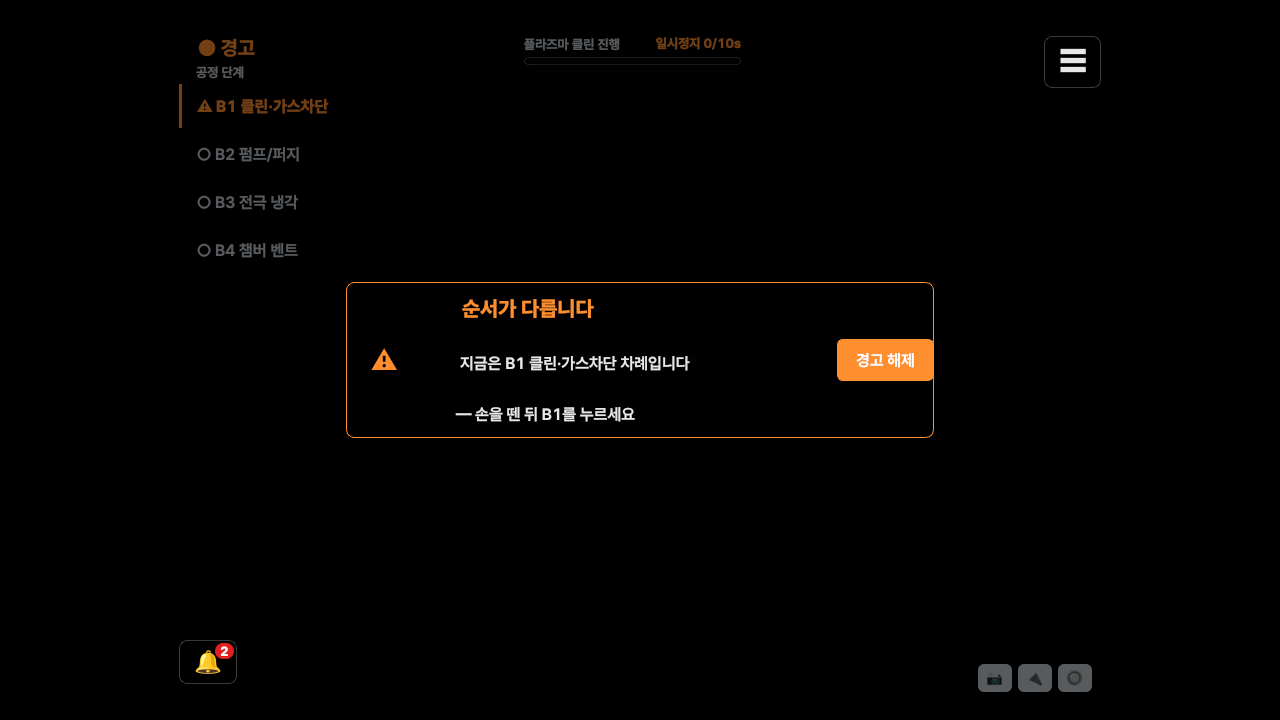
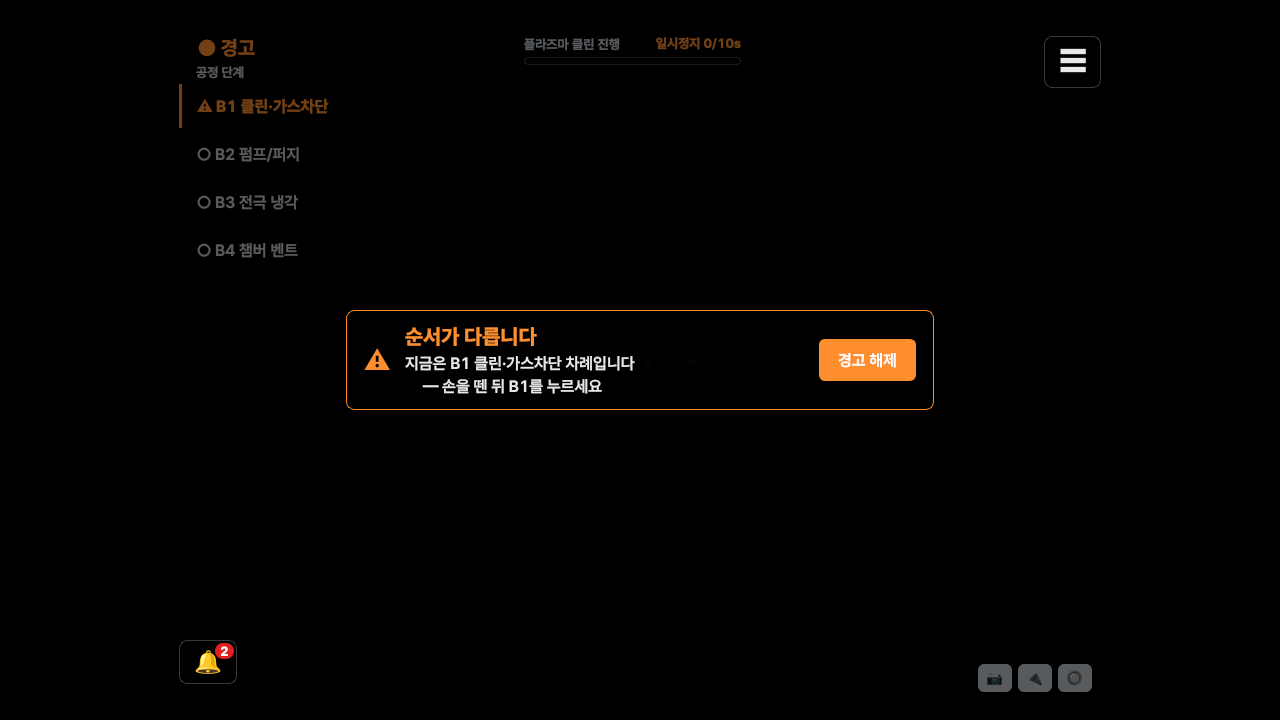
fix(overlay): 경고·차단 박스 안 여백 — 스타일을 박스에만 걸고 여백은 레이아웃으로 (해제 버튼이 테두리에 붙던 것 · 사용자 요청)
박스 QSS 가 선택자 없이 걸려 padding 이 안쪽 글자 칸마다 번졌다(제목 칸 25 → 54px) · 맥박(Pulse)도 selector 로 박스에만.

Claude-Session: https://claude.ai/code/session_01JDs5qRwEXjDBfduqnbPXNL

Changed region(s): [[0.2812, 0.3972, 0.5312, 0.6111], [0.625, 0.4583, 0.75, 0.55]]

diff --git a/Demo/overlay.py b/Demo/overlay.py
@@ -425,6 +425,7 @@ class GaugePanel(_Panel):
 
 # 경고·공구 경고·차단 박스는 같은 크기·자리 — 화면 정중앙(사용자 결정 2026-09-25).
 _ALERT_POS = {"width": 0.46}
+_ALERT_SEL = "QWidget#glassPanel"   # 박스 스타일을 박스 자신에게만(_Panel 의 objectName)
 
 
 class GlowFrame(QWidget):
@@ -496,14 +497,16 @@ class AlertBanner(_Panel):
 
         # 차단 맥박 — 🔴 mode 를 벗어나거나 숨길 때 반드시 stop() 한다.
         self._pulse = anim.Pulse(
-            self, lambda: theme.panel_qss("sheet", padding="14px 18px"),
-            theme.C("danger"))
+            self, lambda: theme.panel_qss("sheet", padding="0"),
+            theme.C("danger"), selector=_ALERT_SEL)
         self._shown_mode = None         # 화면에 그려져 있는 mode (등장 트리거 비교용)
         self._last_paint = None         # 마지막 _paint 인자 — 테마를 다시 칠할 때 쓴다(G8)
         self._needs_entrance = False    # 다음 relayout 에서 미끄러져 들어올 것
 
         lay = QHBoxLayout(self)
-        lay.setContentsMargins(0, 0, 0, 0)
+        # 🔴 박스 안 여백은 **레이아웃 여백**으로 준다 — QSS padding 은 맨 QWidget 의 배치에
+        #    반영되지 않아 해제 버튼이 테두리에 붙었다(리뷰 M6 · 사용자 요청 2026-09-25).
+        lay.setContentsMargins(18, 14, 18, 14)
         lay.setSpacing(14)
 
         self._icon = QLabel("⚠")
@@ -587,8 +590,10 @@ class AlertBanner(_Panel):
         else:
             self._release.hide()
 
-        self.setStyleSheet(theme.panel_qss("sheet", padding="14px 18px")
-                           + f"border-color: {c};")
+        # 🔴 선택자로 **박스에만** 건다 — 선택자 없이 걸면 padding 이 안쪽 글자 칸마다 번져
+        #    줄 사이가 벌어졌다(제목 칸 25 → 54px). 여백은 레이아웃이 맡는다.
+        self.setStyleSheet(f"{_ALERT_SEL} {{ {theme.panel_qss('sheet', padding='0')}"
+                           f"border-color: {c}; }}")
         for lbl in (self._icon, self._title, self._line1, self._line2):
             _glow(lbl)
         self.raise_()

diff --git a/Demo/selftest/test_overlay.py b/Demo/selftest/test_overlay.py
@@ -555,6 +555,25 @@ def test_alert_boxes_same_place():
               for r in rects.values()),
           f"모두 화면 정중앙 — {[(m, r.center().x(), r.center().y()) for m, r in rects.items()]}")
 
+def test_alert_box_inner_margin():
+    """박스 안 여백(사용자 요청 2026-09-25) — 해제 버튼이 박스 테두리에 붙지 않고, 박스의 안쪽
+    여백이 글자 칸마다 번져 줄 사이가 벌어지지 않는다(리뷰 M6)."""
+    print("\n[배너] 박스 안 여백")
+    host = QWidget(); host.setGeometry(SCREEN)
+    for mode, show in (("order", lambda b: b.show_order_violation("B1", "클린·가스차단")),
+                       ("block", lambda b: b.show_block())):
+        b = AlertBanner(host)
+        b.apply_theme()
+        show(b)
+        b.relayout(SCREEN)
+        host.show(); _app.processEvents()
+        gap_r = b.width() - 1 - b._release.geometry().right()
+        check(gap_r >= 12, f"{mode} — 해제 버튼 오른쪽 여백 {gap_r}px (12px 이상)")
+        fh = b._title.fontMetrics().height()
+        check(b._title.height() <= fh + 8,
+              f"{mode} — 제목 칸 높이 {b._title.height()}px ≈ 글자 높이 {fh}px (여백이 번지면 +28px)")
+    host.close()
+
 if __name__ == "__main__":
     for _name, _fn in sorted(globals().items()):
         if _name.startswith("test_"):

diff --git a/Demo/anim.py b/Demo/anim.py
@@ -97,10 +97,11 @@ class Pulse:
     base_qss_fn: 맥박이 덧씌울 바탕 QSS 를 그때그때 만들어 주는 함수(테마 전환 대응).
     """
 
-    def __init__(self, widget, base_qss_fn, color_hex):
+    def __init__(self, widget, base_qss_fn, color_hex, selector=None):
         self._w = widget
         self._base = base_qss_fn
         self._c = color_hex
+        self._sel = selector            # 주면 「selector { … }」 로 감싸 그 위젯에만 건다
         self._anim = None
 
     def start(self):
@@ -111,8 +112,8 @@ class Pulse:
 
         def step(t):
             a = 0.30 + 0.70 * float(t)
-            self._w.setStyleSheet(
-                base + f"border: 1px solid rgba({c.red()},{c.green()},{c.blue()},{a:.2f});")
+            qss = base + f"border: 1px solid rgba({c.red()},{c.green()},{c.blue()},{a:.2f});"
+            self._w.setStyleSheet(f"{self._sel} {{ {qss} }}" if self._sel else qss)
 
         if not enabled():
             step(1.0)
